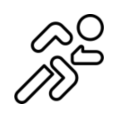
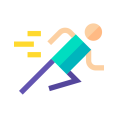
[+] better skills window

Changed region(s): [[0.1017, 0.1017, 0.8898, 0.8898]]

diff --git a/src/skills/init_skills.c b/src/skills/init_skills.c
@@ -9,100 +9,48 @@
 #include "skills.h"
 #include "skills_static.h"
 
-void skills_events(game_t *game, sfEvent ev, window_t *win)
-{
-    sfVector2f size = win_size(win);
-    float indent = 244 * (SCALE(size));
-    sfFloatRect mouse = {ev.mouseButton.x, ev.mouseButton.y, 1, 1};
-    sfFloatRect button = {S_POS_X(size, 0), 333 * size.y / 1080.0,
-    118 * (SCALE(size)), 118 * (SCALE(size))};
-
-    for (int i = 0; i < NB_SKILLS; i++) {
-        if (sfFloatRect_intersects(&mouse, &button, 0)) {
-            game->skills->skill_selected = i;
-            return;
-        }
-        button.left += indent;
-    }
-}
-
 void scale_draw(game_t *game, sfVector2f scale)
 {
     sfSprite_setScale(game->skills->sprite, scale);
     sfSprite_setScale(game->skills->button, scale);
-    for (int i = 0; i < NB_SKILLS; i++)
-        sfSprite_setScale(game->skills->sk_sprites[i], scale);
+    for (int i = 0; i < NB_SKILLS; i++) {
+        sfSprite_setScale(game->skills->sk_sprites[i][0], scale);
+        sfSprite_setScale(game->skills->sk_sprites[i][1], scale);
+    }
 }
 
-void create_skill_desc(sfText *text, int item, sfVector2f size)
+void skills_events(game_t *game, sfEvent ev, sfVector2f size)
 {
-    char *str;
-    const char *tmp;
-    sfFloatRect pos = sfText_getGlobalBounds(text);
-    char **words = my_str_to_word_array(SKILLS_TXT(item), " ");
+    int selected = game->skills->skill_selected;
+    sfFloatRect mouse = {ev.mouseButton.x, ev.mouseButton.y, 1, 1};
+    sfFloatRect button = {S_POS_X(size, 0), 333 * size.y / 1080.0,
+    118 * (SCALE(size)), 118 * (SCALE(size))};
 
-    sfText_setString(text, "");
-    for (int i = 0; words[i]; i++) {
-        tmp = sfText_getString(text);
-        str = str_concat(3, tmp, words[i], " ");
-        sfText_setString(text, str);
-        free(str);
-        pos = sfText_getGlobalBounds(text);
-        if (pos.left + pos.width > 1715 / 1080.0 * size.y) {
-            str = str_concat(2, tmp, "\n");
-            sfText_setString(text, str);
-            free(str);
-            i--;
+    for (int i = 0; i < NB_SKILLS; i++, button.left += 244 * (SCALE(size))) {
+        if (sfFloatRect_intersects(&mouse, &button, 0)) {
+            game->skills->skill_selected = i;
+            return;
         }
     }
-    my_free("P", words);
-}
-
-void draw_skill_desc(game_t *game, sfVector2f size, int skill)
-{
-    sfText *text = init_text(SKILLS_TITLE(skill), size.y / 40);
-    sfSprite *sprite = game->skills->sk_sprites[skill];
-
-    sfSprite_setScale(sprite, (sfVector2f)
-    {2.5 * SCALE(size), 2.5 * SCALE(size)});
-    sfSprite_setPosition(sprite, (sfVector2f)
-    {size.x / 2 - 620 / 1080.0 * size.y, 583 * SCALE(size)});
-    sfText_setPosition(text, (sfVector2f)
-    {size.x / 2 + 0 / 1080.0 * size.y, 640 * SCALE(size)});
-    center_text(text);
-    sfRenderTexture_drawText(game->rtex, text, NULL);
-    create_skill_desc(text, skill, size);
-    sfText_setCharacterSize(text, size.y / 45);
-    sfText_setPosition(text, (sfVector2f)
-    {size.x / 2 + 0 / 1080.0 * size.y, 690 * SCALE(size)});
-    center_text(text);
-    sfRenderTexture_drawText(game->rtex, text, NULL);
-    sfRenderTexture_drawSprite(game->rtex, sprite, NULL);
-    sfText_destroy(text);
-}
-
-void draw_skills(game_t *game, window_t *win)
-{
-    sfVector2f size = win_size(win);
-    float indent = 244 * (SCALE(size));
-
-    if (!game->skills->draw)
-        return;
-    scale_draw(game, (sfVector2f){SCALE(size), SCALE(size)});
-    sfSprite_setPosition(game->skills->sprite,
-    (sfVector2f){size.x * 0.5, size.y * 0.5});
-    sfRenderTexture_drawSprite(game->rtex, game->skills->sprite, NULL);
-    sfSprite_setPosition(game->skills->button,
-    (sfVector2f){size.x / 2 + 292 / 1080.0 * size.y, size.y * 0.475});
-    sfRenderTexture_drawSprite(game->rtex, game->skills->button, NULL);
-    for (int i = 0; i < NB_SKILLS; i++) {
-        sfSprite_setPosition(game->skills->sk_sprites[i],
-        (sfVector2f){S_POS_X(size, indent * i), 333 * size.y / 1080.0});
-        sfRenderTexture_drawSprite(game->rtex, game->skills->sk_sprites[i],
-        NULL);
+    button = sfSprite_getGlobalBounds(game->skills->button);
+    if (selected >= 0 && sfFloatRect_intersects(&mouse, &button, 0) &&
+    game->skills->data->pc > 1 && game->skills->data->tab[selected] < 2) {
+        if (selected != 0 && game->skills->data->tab[selected - 1] == 0)
+            return;
+        game->skills->data->pc -= 2;
+        game->skills->data->tab[selected]++;
     }
-    if (game->skills->skill_selected != -1)
-        draw_skill_desc(game, size, game->skills->skill_selected);
+}
+
+void skills_create2(skills_t *skills)
+{
+    sfTexture *texture = sfTexture_createFromFile(S_BUTTON_PATH, NULL);
+
+    skills->skill_selected = -1;
+    skills->button = sfSprite_create();
+    sfSprite_setTexture(skills->button, texture, sfTrue);
+    skills->rect = sfRectangleShape_create();
+    sfRectangleShape_setFillColor(skills->rect, (sfColor){128, 128, 128, 128});
 }
 
 skills_t *skills_create(void)
@@ -119,13 +67,13 @@ skills_t *skills_create(void)
     sfSprite_setOrigin(skills->sprite, (sfVector2f){sfTexture_getSize
     (skills->texture).x / 2, sfTexture_getSize(skills->texture).y / 2});
     for (int i = 0; i < NB_SKILLS; i++) {
-        skills->sk_sprites[i] = sfSprite_create();
+        skills->sk_sprites[i][0] = sfSprite_create();
+        skills->sk_sprites[i][1] = sfSprite_create();
+        texture = sfTexture_createFromFile(sk_white_paths[i], NULL);
+        sfSprite_setTexture(skills->sk_sprites[i][0], texture, sfTrue);
         texture = sfTexture_createFromFile(sk_paths[i], NULL);
-        sfSprite_setTexture(skills->sk_sprites[i], texture, sfTrue);
+        sfSprite_setTexture(skills->sk_sprites[i][1], texture, sfTrue);
     }
-    texture = sfTexture_createFromFile(S_BUTTON_PATH, NULL);
-    skills->button = sfSprite_create();
-    sfSprite_setTexture(skills->button, texture, sfTrue);
-    skills->skill_selected = -1;
+    skills_create2(skills);
     return skills;
 }

diff --git a/src/skills/draw.c b/src/skills/draw.c
@@ -1,0 +1,121 @@
+/*
+** EPITECH PROJECT, 2022
+** B-MUL-200-LIL-2-1-myrpg-quentin.desmettre
+** File description:
+** draw
+*/
+
+#include "rpg.h"
+
+void create_skill_desc(sfText *text, int item, sfVector2f size)
+{
+    char *str;
+    const char *tmp;
+    sfFloatRect pos = sfText_getGlobalBounds(text);
+    char **words = my_str_to_word_array(SKILLS_TXT(item), " ");
+
+    sfText_setString(text, "");
+    for (int i = 0; words[i]; i++) {
+        tmp = sfText_getString(text);
+        str = str_concat(3, tmp, words[i], " ");
+        sfText_setString(text, str);
+        free(str);
+        pos = sfText_getGlobalBounds(text);
+        if (pos.left + pos.width > 1715 / 1080.0 * size.y) {
+            str = str_concat(2, tmp, "\n");
+            sfText_setString(text, str);
+            free(str);
+            i--;
+        }
+    }
+    my_free("P", words);
+}
+
+void draw_skill_desc(game_t *game, sfVector2f size, int skill)
+{
+    sfText *text = init_text(SKILLS_TITLE(skill), size.y / 40);
+    sfSprite *sprite = game->skills->sk_sprites[skill][1];
+
+    sfSprite_setScale(sprite, (sfVector2f)
+    {2.5 * SCALE(size), 2.5 * SCALE(size)});
+    sfSprite_setPosition(sprite, (sfVector2f)
+    {size.x / 2 - 600 / 1080.0 * size.y, 583 * SCALE(size)});
+    sfText_setPosition(text, (sfVector2f){size.x / 2, 640 * SCALE(size)});
+    center_text(text);
+    sfRenderTexture_drawText(game->rtex, text, NULL);
+    create_skill_desc(text, skill, size);
+    sfText_setCharacterSize(text, size.y / 45);
+    sfText_setPosition(text, (sfVector2f){size.x / 2, 690 * SCALE(size)});
+    center_text(text);
+    sfRenderTexture_drawText(game->rtex, text, NULL);
+    sfRenderTexture_drawSprite(game->rtex, sprite, NULL);
+    sfText_destroy(text);
+}
+
+void draw_points(game_t *game, sfVector2f size, int indent)
+{
+    char *str;
+    char *concat;
+    sfText *text = init_text("", size.y / 30);
+
+    for (int i = 0; i < NB_SKILLS; i++) {
+        str = nbr_to_str(game->skills->data->tab[i]);
+        concat = str_concat(2, "level ", str);
+        sfText_setString(text, concat);
+        sfText_setPosition(text, (sfVector2f)
+        {S_POS_X(size, indent * i), 452 * SCALE(size)});
+        sfRenderTexture_drawText(game->rtex, text, NULL);
+        my_free("pp", concat, str);
+    }
+    str = nbr_to_str(game->skills->data->pc);
+    concat = str_concat(2, "Points\nleft : ", str);
+    sfText_setCharacterSize(text, size.y / 20);
+    sfText_setString(text, concat);
+    sfText_setPosition(text, (sfVector2f)
+    {S_POS_X(size, indent * 3.3), 292 * SCALE(size)});
+    sfRenderTexture_drawText(game->rtex, text, NULL);
+    my_free("pp", concat, str);
+}
+
+void draw_skills2(game_t *game, sfVector2f size, int indent)
+{
+    sfText *text = init_text("Upgrade (-2 pts)", size.y / 35);
+    int unlocked = 0;
+
+    for (int i = 0; i < NB_SKILLS; i++) {
+        unlocked = game->skills->data->tab[i] != 0;
+        sfRectangleShape_setPosition(game->skills->rect,
+        (sfVector2f){S_POS_X(size, indent * i), 333 * size.y / 1080.0});
+        sfSprite_setPosition(game->skills->sk_sprites[i][unlocked],
+        (sfVector2f){S_POS_X(size, indent * i), 333 * size.y / 1080.0});
+        sfRenderTexture_drawSprite(game->rtex,
+        game->skills->sk_sprites[i][unlocked], 0);
+        game->skills->skill_selected != i ? sfRenderTexture_drawRectangleShape
+        (game->rtex, game->skills->rect, 0) : 0;
+    }
+    sfText_setPosition(text, (sfVector2f)
+    {size.x / 2 + 325 / 1080.0 * size.y, 530 * SCALE(size)});
+    sfRenderTexture_drawText(game->rtex, text, NULL);
+    if (game->skills->skill_selected != -1)
+        draw_skill_desc(game, size, game->skills->skill_selected);
+}
+
+void draw_skills(game_t *game, window_t *win)
+{
+    sfVector2f size = win_size(win);
+    float indent = 244 * (SCALE(size));
+
+    if (!game->skills->draw)
+        return;
+    scale_draw(game, (sfVector2f){SCALE(size), SCALE(size)});
+    sfSprite_setPosition(game->skills->sprite,
+    (sfVector2f){size.x / 2, size.y / 2});
+    sfRenderTexture_drawSprite(game->rtex, game->skills->sprite, NULL);
+    sfSprite_setPosition(game->skills->button,
+    (sfVector2f){size.x / 2 + 292 / 1080.0 * size.y, size.y * 0.475});
+    sfRenderTexture_drawSprite(game->rtex, game->skills->button, NULL);
+    sfRectangleShape_setSize(game->skills->rect,
+    (sfVector2f){118 * SCALE(size), 118 * SCALE(size)});
+    draw_skills2(game, size, indent);
+    draw_points(game, size, indent);
+}

diff --git a/include/skills.h b/include/skills.h
@@ -31,8 +31,9 @@
 // descriptions of the diffetents skills
     #define SKILLS_DESC "You are able to sprint for 5 seconds.\n\
 Use this skill with the shift key."
-    #define CRY_DESC "You can create a puddle by crying to afraid monsters.\n\
-Be carefull you lose hydratation while crying. Use with the C key"
+    #define CRY_DESC "You can create a puddle by crying \n\
+to afraid monsters. Be carefull you lose\n\
+hydratation while crying. Use with the C key"
     #define FIND_EXIT_DESC "You can know if the exit is in this room\n\
 Use this skill with the F key"
 
@@ -51,7 +52,8 @@ typedef struct skills_data {
 // skills structure
 typedef struct skills {
     skills_data_t *data;
-    sfSprite *sk_sprites[NB_SKILLS];
+    sfSprite *sk_sprites[NB_SKILLS][2];
+    sfRectangleShape *rect;
     sfTexture *texture;
     sfSprite *sprite;
     sfSprite *button;

diff --git a/include/rpg.h b/include/rpg.h
@@ -429,7 +429,8 @@ circular_splash_t *create_circular_splash(sfVector2f pos, sfVector2f max_size);
 int draw_circular_splash(circular_splash_t **circu, sfRenderWindow *win);
 
 void draw_skills(game_t *game, window_t *win);
-void skills_events(game_t *game, sfEvent ev, window_t *win);
+void skills_events(game_t *game, sfEvent ev, sfVector2f size);
+void scale_draw(game_t *game, sfVector2f scale);
 void next_level(ray_c *data);
 
 // fight

diff --git a/src/game/init_game.c b/src/game/init_game.c
@@ -57,7 +57,7 @@ void game_ev(window_t *win, sfEvent ev)
     if (ev.type == sfEvtMouseButtonReleased &&
     ev.mouseButton.button == sfMouseLeft) {
         game->inventory->draw ? inventory_events(game, ev, win) : 0;
-        game->skills->draw ? skills_events(game, ev, win) : 0;
+        game->skills->draw ? skills_events(game, ev, win_size(win)) : 0;
     }
     ev_quest(game, ev, win->win);
 }

diff --git a/include/skills_static.h b/include/skills_static.h
@@ -11,6 +11,12 @@
     #include <string.h>
 
 // list of skills paths
+static const char *sk_white_paths[] = {
+    "assets/skills/sprint_white.png",
+    "assets/skills/cry_white.png",
+    "assets/skills/find_exit_white.png"
+};
+
 static const char *sk_paths[] = {
     "assets/skills/sprint.png",
     "assets/skills/cry.png",
